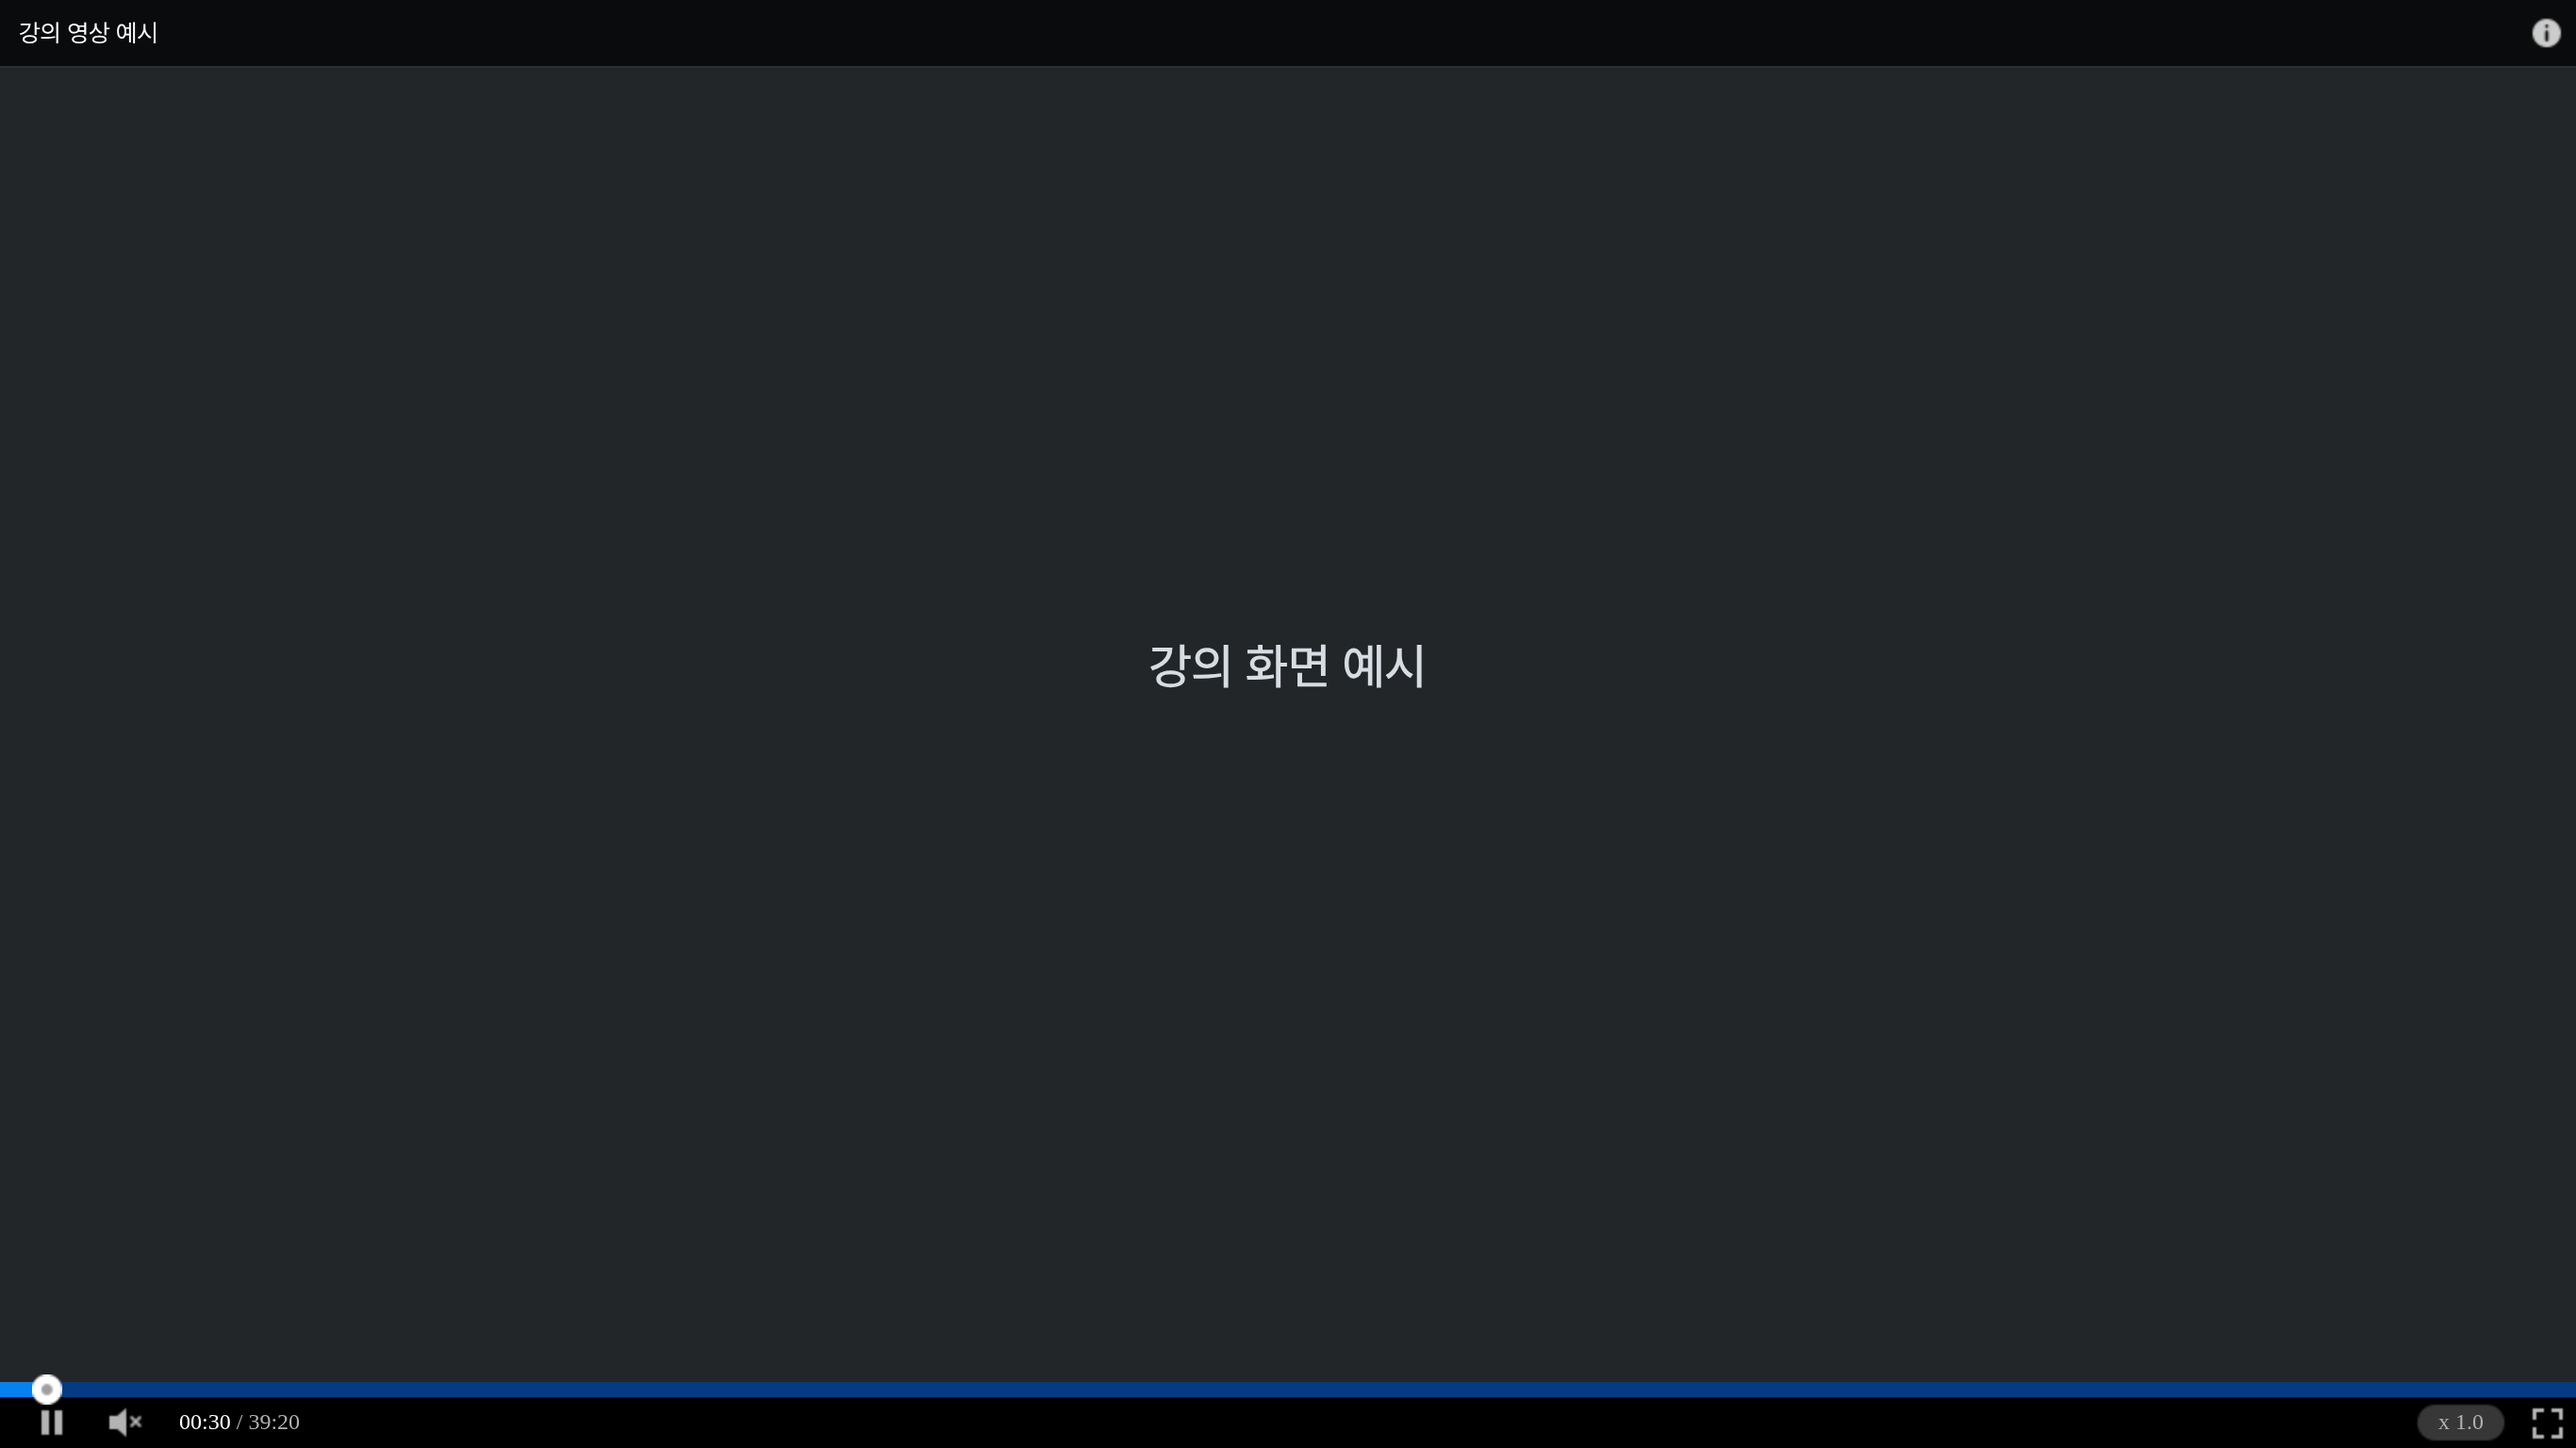
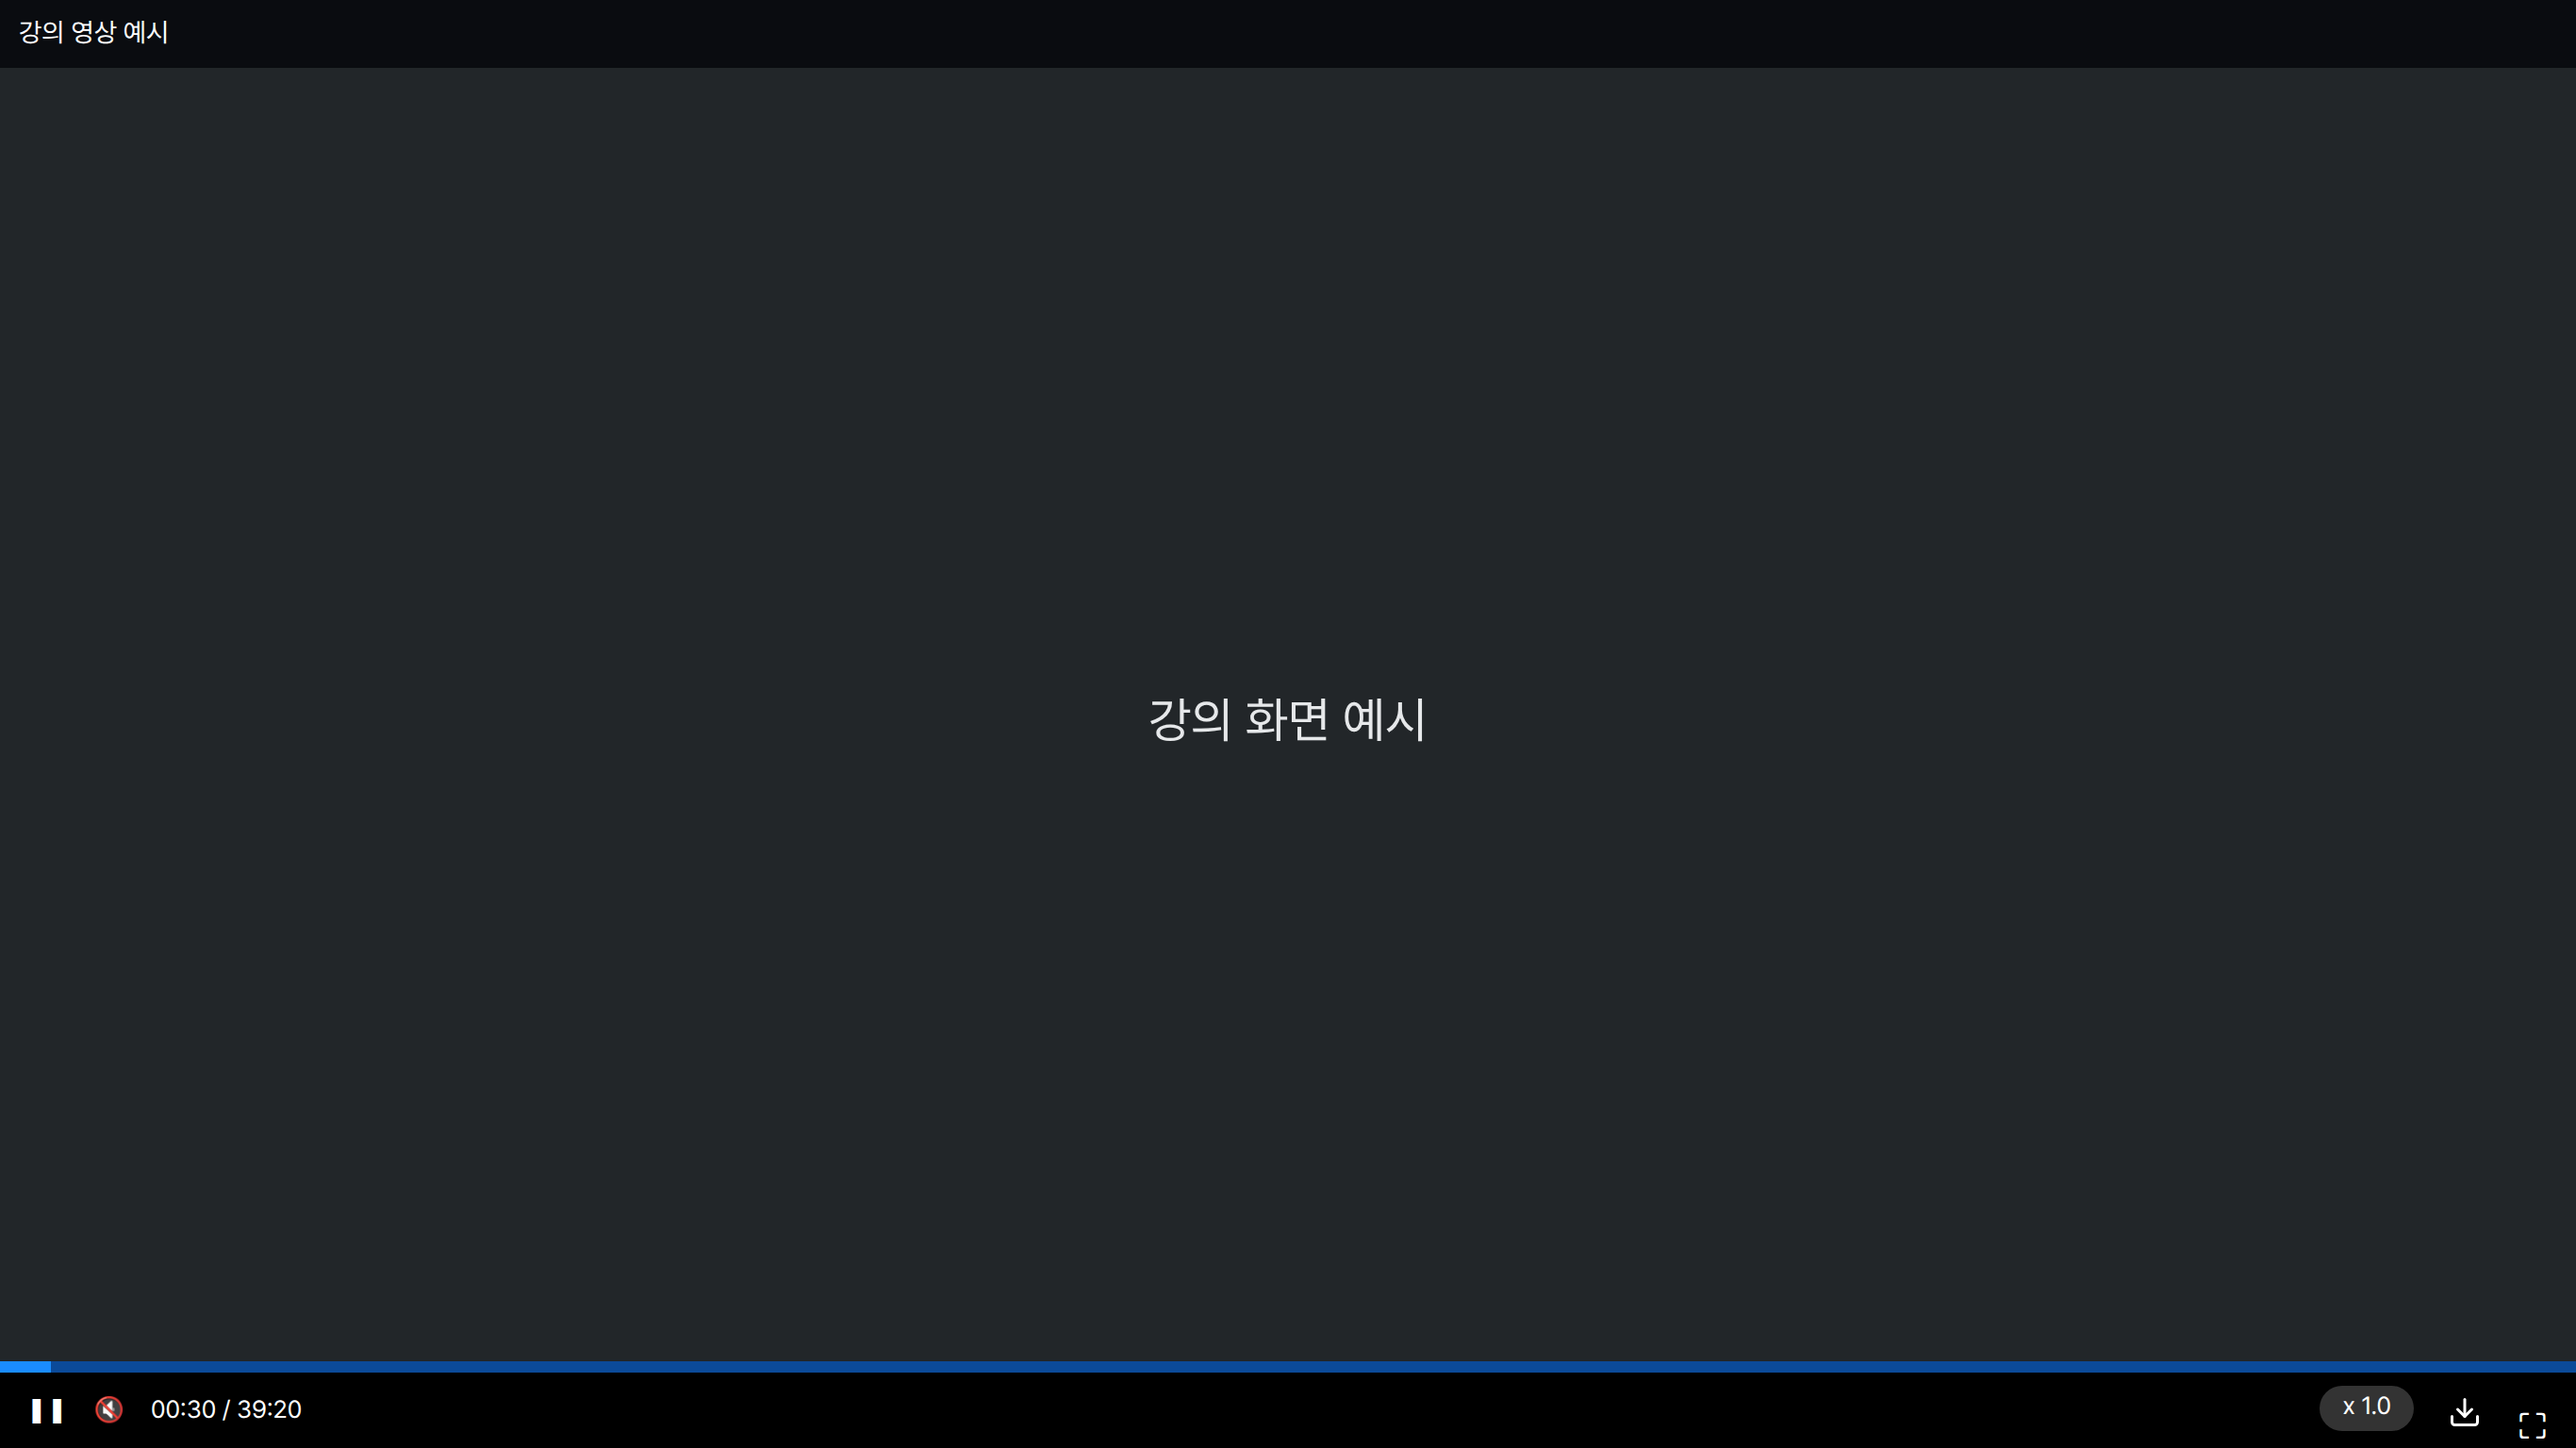
docs: 영상 화면 캡처에 저장 버튼 반영, README 이미지 폭 조정

diff --git a/README.md b/README.md
@@ -31,53 +31,53 @@
 
 팝업에서 즐겨찾기 과목의 남은 과제와 마감까지 남은 시간을 확인할 수 있습니다. 과목명과 과제명은 예시로 바꿨습니다.
 
-![행마다 숨기기 버튼이 있는 아캠 플러스 팝업](screenshots/tasks.png)
+<img src="screenshots/tasks.png" width="400" alt="행마다 숨기기 버튼이 있는 아캠 플러스 팝업">
 
 ### 과제 숨기기와 직접 추가
 
 안 내도 되는 과제는 **숨기기**로 목록과 알림에서 뺄 수 있고, 제목 줄의 **숨긴 과제 N개**로 다시 볼 수 있습니다. 메일처럼 아이캠퍼스 밖에서 내는 과제는 **추가하기**에서 과목, 이름, 마감을 적어 직접 추가하면 마감 알림도 받습니다.
 
-![과목, 과제 이름, 마감을 적는 직접 추가 양식](screenshots/task-add.png)
+<img src="screenshots/task-add.png" width="400" alt="과목, 과제 이름, 마감을 적는 직접 추가 양식">
 
-![직접 추가한 과제와 숨긴 과제가 함께 보이는 목록](screenshots/task-manage.png)
+<img src="screenshots/task-manage.png" width="400" alt="직접 추가한 과제와 숨긴 과제가 함께 보이는 목록">
 
 ### 설정
 
 자주 쓰는 설정부터 화면 모드, 보조 설정, 영상 저장, 알림 순서로 모았습니다. 맥과 리눅스에서는 Windows 보조 설정 대신 강의 자동 재생 스크립트 받기 줄이 보입니다.
 
-![자주 쓰는 순서로 정리한 설정 화면](screenshots/settings-order.png)
+<img src="screenshots/settings-order.png" width="720" alt="자주 쓰는 순서로 정리한 설정 화면">
 
 ### 강의 선택과 재생 목록
 
 강의를 고른 뒤 재생 목록으로 듣고, 목록에서 순서를 바꾸거나 일시중지할 수 있습니다. 재생 목록으로 연 강의는 자동 재생을 시도하고, 완료 화면을 확인한 뒤 다음 강의로 넘어갑니다. 아래 강의 이름과 재생 상태는 화면 예시입니다.
 
-![강의 두 개를 선택한 팝업](screenshots/playlist-select.png)
+<img src="screenshots/playlist-select.png" width="400" alt="강의 두 개를 선택한 팝업">
 
-![재생 상태와 순서 변경 버튼이 보이는 재생 목록](screenshots/playlist-playing.png)
+<img src="screenshots/playlist-playing.png" width="400" alt="재생 상태와 순서 변경 버튼이 보이는 재생 목록">
 
-### 인트로 건너뛰기와 영상 확대
+### 인트로 건너뛰기, 영상 확대, 영상 저장
 
-영상 앞의 인트로·프리로더를 자동으로 넘깁니다. 일반 브라우저 창에서 학교 플레이어의 전체화면 버튼을 누르면 영상이 창 안에서 크게 펼쳐집니다. 강의 내용은 가렸습니다.
+영상 앞의 인트로·프리로더를 자동으로 넘깁니다. 일반 브라우저 창에서 학교 플레이어의 전체화면 버튼을 누르면 영상이 창 안에서 크게 펼쳐집니다. 설정에서 영상 저장을 켜면 전체화면 버튼 옆에 다운로드 버튼이 생깁니다(아래 화면은 예시 영상입니다).
 
-![학교 플레이어의 전체화면 버튼으로 펼친 강의 화면](screenshots/video-fullscreen.png)
+<img src="screenshots/video-fullscreen.png" width="720" alt="학교 플레이어의 전체화면 버튼으로 펼친 강의 화면">
 
 ### 화면 모드
 
 Canvas와 LearningX에서 밝은 화면과 어두운 화면을 고를 수 있습니다.
 
-![어두운 화면 모드의 아이캠퍼스 대시보드](screenshots/dark-dashboard.png)
+<img src="screenshots/dark-dashboard.png" width="720" alt="어두운 화면 모드의 아이캠퍼스 대시보드">
 
 ### 알림과 구글 캘린더
 
 마감 알림 시점과 매일 요약을 고르고, 원하는 경우 구글 캘린더를 연결할 수 있습니다.
 
-![알림과 구글 캘린더 설정](screenshots/alerts-calendar.png)
+<img src="screenshots/alerts-calendar.png" width="720" alt="알림과 구글 캘린더 설정">
 
 ### 시험 모드
 
 시험 모드를 켜면 시험 중 다른 확장과 알림을 잠시 멈추는 기능, 전체화면 관련 선택 기능을 설정할 수 있습니다. 시험 모드가 꺼져 있어도 퀴즈 응시 화면에서는 아캠 플러스의 모든 기능이 멈춥니다.
 
-![시험 모드와 전체화면 관련 설정](screenshots/exam-settings.png)
+<img src="screenshots/exam-settings.png" width="720" alt="시험 모드와 전체화면 관련 설정">
 
 ## 기술 구성
 
